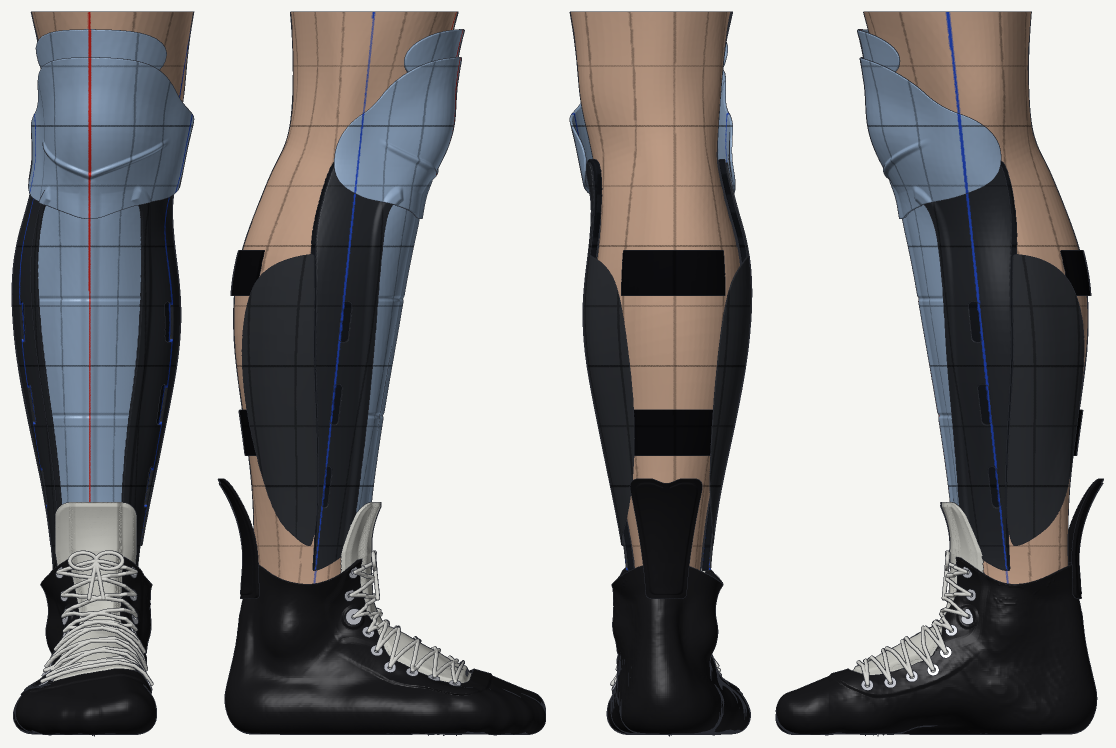
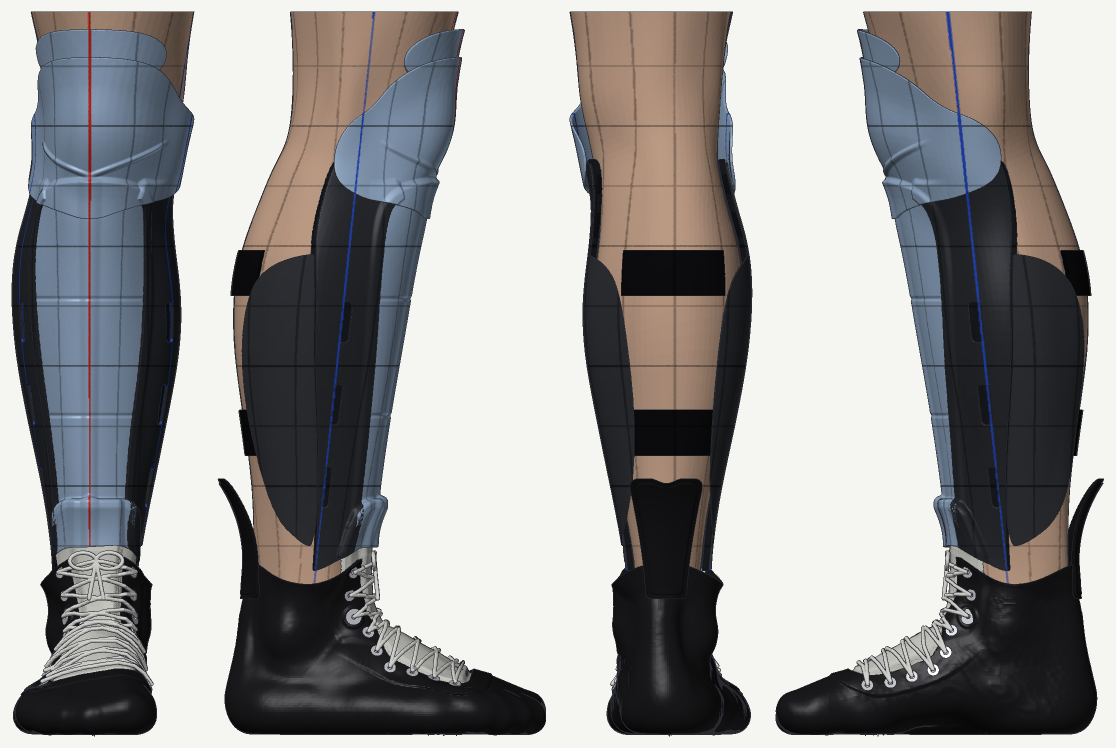
Shin pad: 14 mm of foam at the front, the shell clears the tongue
- From D3's runs: 14 mm at the front (tapering to 5 mm at the sides)
  takes a third off the force that reaches the shin against 8 mm; the
  front's bulk 19.6 mm, still under the modelled undersized pad's.
  372 g (337 with 8 mm).
- Tongue under, flush: the shell lifts to clear the tongue by 1 mm where
  it would come through (its curled top corners stood 2.8 mm proud), a
  local bulge 27.2 mm off the skin at the bottom front. A flatter tongue
  top on the boot would remove it.
- The comparison pads still carry 8 mm of foam; to rerun.

Changed region(s): [[0.0305, 0.2152, 0.1523, 0.738], [0.3047, 0.2152, 0.3961, 0.738], [0.7921, 0.2152, 0.8835, 0.7687]]

diff --git a/src/pad.rs b/src/pad.rs
@@ -113,7 +113,7 @@ impl Default for PadParams {
     fn default() -> Self {
         PadParams {
             ease: 1.0,
-            liner_front: 8.0,
+            liner_front: 14.0,
             liner_side: 5.0,
             wall: 2.0,
             side_to: 105.0,
@@ -672,10 +672,19 @@ impl Pad {
         (th, th.to_radians() * R_REF, q.z)
     }
 
-    /// What the hard shin parts are offset from: the leg alone when flush (a lap joint over the
-    /// tongue), else what the pad wraps.
-    fn shin_d(&self, q: Point3<f64>) -> f64 {
-        if self.flush { self.leg.eval(q) } else { self.body.eval(q) }
+    /// A shin shell piece between `inner` and `outer` mm off what it is offset from. Flush (tongue
+    /// under, a lap joint): off the leg, and where the tongue would come through it, lifted to
+    /// clear the tongue by 1 mm, a small local bulge (2026-11-12: with 14 mm of front foam the
+    /// tongue's curled top corners still stood 2.8 mm proud of a shell offset from the leg alone).
+    fn shell_band(&self, q: Point3<f64>, inner: f64, outer: f64) -> f64 {
+        if !self.flush {
+            return Self::band(self.body.eval(q), inner, outer);
+        }
+        let mut base = self.leg.eval(q) - inner;
+        if let Body::Fitted { tongue: Some(t), .. } = &*self.body {
+            base = smin(base, t.eval(q) - 1.0, 3.0);
+        }
+        (-base).max(base - (outer - inner))
     }
 
     /// The knee shield's dome: extra stand-off over the kneecap (its centre ~15 mm above the
@@ -769,10 +778,10 @@ impl Pad {
             // thinner and the outside stays flush.
             Part::ShinLiner if self.flush => (p.ease - self.body.eval(q)).max(self.leg.eval(q) - (p.ease + lt)),
             Part::ShinLiner => Self::band(self.body.eval(q), p.ease, p.ease + lt),
-            Part::ShinShell => Self::band(self.shin_d(q), p.ease + lt, self.front_outer(s, z, lt)),
+            Part::ShinShell => self.shell_band(q, p.ease + lt, self.front_outer(s, z, lt)),
             Part::SidePanel(_) => {
                 let inner = self.side_inner(s, z, lt);
-                Self::band(self.shin_d(q), inner, inner + p.wall)
+                self.shell_band(q, inner, inner + p.wall)
             }
             Part::KneeLiner => Self::band(self.body.eval(q), p.ease, p.ease + p.knee_liner + self.dome(s, z)),
             // The shield lifts over whatever it laps: the front shell's top, the side panels'

diff --git a/docs/PLAN.md b/docs/PLAN.md
@@ -1354,6 +1354,25 @@ In his words, each with a first engineering take. Item 9 above is where this sta
 
   **Next for the look:** rolled edges (thicker for the last few mm, turned out), overlapping
   plates down the front with a bolder spine, padded calf wraps; Jon's marks.
+
+  **The foam from D3 (2026-11-12).** Jon: "so the hard shell should be on the outside, foam on
+  the inside. like how shin pads currently are. then we can increase the foam however youd
+  like" (it is built that way already: the shell outside, the liner against the shin). From D3's
+  runs, **14 mm at the front** (tapering to 5 mm at the sides, 105° round): a third off the force
+  that reaches the shin (12.4 kN against 18.5 with 8 mm, on D3's rigid shin), with the front's
+  bulk 19.6 mm, still under the modelled undersized pad's 23.4. 16 mm would take 6% more off for
+  2 mm more bulk.
+  - **372 g** (337 with 8 mm): the liner +25.5 g (the thicker foam tapers over a wide band round
+    the shin), the shells +10 g (they sit further out, so they're bigger), +4 g for the bulge
+    below. Bulk: front 19.6 mm, ±45° 14.2 / 13.8, sides 9.6 / 9.4 (unchanged).
+  - **The tongue under the flush pad:** the thicker front foam did not make room for it as hoped:
+    the tongue's top curls forward and its corners stood 2.8 mm proud of the shell. Now the
+    shell clears the tongue by 1 mm wherever it would come through (`Pad::shell_band`): the
+    tongue is covered (0.0 mm through), with a local bulge over its top, **27.2 mm off the skin
+    at the bottom front** (round 1's hook was 33.6). A flatter tongue top on the boot would let
+    the pad sit at ~20 mm there too: Jon's call, a boot change.
+  - The modelled stock and undersized pads still carry 8 mm of foam (round 2's runs); the
+    like-for-like comparison needs them rerun with 14.
 - **D3, impact**: a puck on the shell over its liner, peak force on the leg. Checked first
   against a textbook impact. `sim-soft-explicit` (explicit dynamics, hyperelastic and
   Kelvin-Voigt, contact with a moving rigid body) is the candidate; it has no crushable-foam
@@ -1403,14 +1422,16 @@ In his words, each with a first engineering take. Item 9 above is where this sta
     | shell 2.5 mm | 17.8 kN | -4% | 5.9 mm |
     | shell 3.0 mm | 17.1 kN | -8% | 5.8 mm |
     | **foam 12 mm** | **13.8 kN** | **-26%** | 7.8 mm |
+    | foam 14 mm | 12.4 kN | -33% | 8.5 mm |
+    | foam 16 mm | 11.35 kN | -39% | 9.0 mm |
     | no shell | crushed through: elements inverted at 0.28 ms, the run stopped | | |
     | warm puck (22 °C) | 12.5 kN | -32% | 5.3 mm |
     | 30 m/s | 30.3 kN | +64% | 6.8 mm |
 
-    - **Foam thickness is the lever.** 4 mm more foam takes 26% off; 1 mm more shell 8%. And
-      foam is light: 4 mm more over ~150 cm² of the front of the shin is ~9 g of foam at 0.15
-      g/cm³, where 0.5 mm more PA 12 shell over ~300 cm² is ~15 g for 4%. Thick foam where pucks
-      land, a thin shell: more protection per gram.
+    - **Foam thickness is the lever,** with diminishing returns: 8 to 12 mm takes 1.2 kN off per
+      mm, 14 to 16 mm 0.5. 1 mm more shell takes 8% off. Thick foam where pucks land, a thin
+      shell: more protection per gram. (An estimate here said 4 mm more foam would weigh ~9 g; in
+      the pad it was more, below.)
     - **The foam's stiffness has a best value** for its thickness: 10 MPa beat 5 (which
       compresses further and stiffens as it closes up) and 20 (which hardly gives). Which foam
       at which thickness is a design choice to make with these runs.
